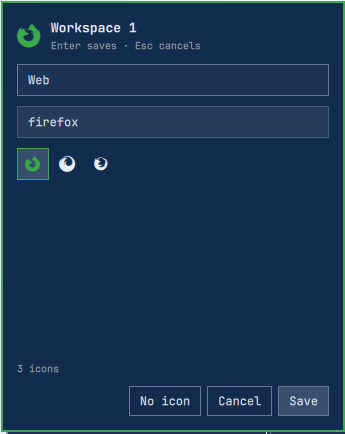
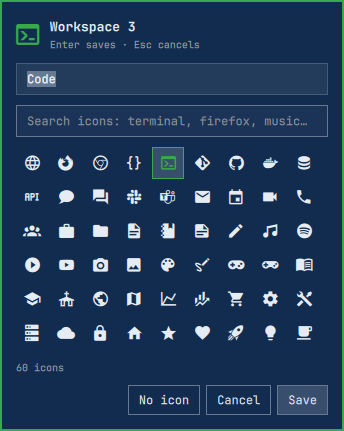
Marketplace prep: removal and requirements docs, preview, plain-text test

diff --git a/tests/qml-text.test.js b/tests/qml-text.test.js
@@ -1,0 +1,36 @@
+// Run: node tests/qml-text.test.js
+// Every Text item must render plain text: workspace names and icons come
+// from user config, and Qt's default AutoText would treat markup in them
+// as rich text (and load <img> URLs).
+const fs = require("fs");
+const path = require("path");
+
+const root = path.join(__dirname, "..");
+let failures = 0;
+let checked = 0;
+
+for (const file of fs.readdirSync(root).filter(f => f.endsWith(".qml"))) {
+  const lines = fs.readFileSync(path.join(root, file), "utf8").split("\n");
+  lines.forEach((line, i) => {
+    const open = line.match(/^(\s*)Text \{\s*$/);
+    if (!open) return;
+    checked++;
+    // Scan this item's own lines (up to its closing brace at the same indent).
+    let plain = false;
+    for (let j = i + 1; j < lines.length; j++) {
+      if (lines[j] === open[1] + "}") break;
+      if (/^\s*textFormat:\s*Text\.PlainText\s*$/.test(lines[j])) plain = true;
+    }
+    if (!plain) {
+      failures++;
+      console.log(`FAIL: ${file}:${i + 1} Text without textFormat: Text.PlainText`);
+    }
+  });
+}
+
+if (checked === 0) {
+  console.log("FAIL: no Text items found");
+  process.exit(1);
+}
+if (failures > 0) process.exit(1);
+console.log(`ok (${checked} Text items are PlainText)`);

diff --git a/README.md b/README.md
@@ -53,6 +53,28 @@ with
 The bar reloads on save. If the widget does not show up, run
 `omarchy restart shell`.
 
+## Remove
+
+1. In `~/.config/omarchy/shell.json`, change the entry's id back to
+   `omarchy.workspaces`. You can also delete its `format` and `workspaces`
+   keys, which the stock widget ignores.
+2. Delete the plugin folder:
+
+   ```bash
+   rm -rf ~/.config/omarchy/plugins/io.github.jburchel.workspace-nameplates
+   ```
+
+3. If you added the optional keybinding, remove it from `bindings.lua`.
+
+## Requirements
+
+- Omarchy 4 (Quattro shell). Tested on Omarchy 4.0.4 with Hyprland 0.56.
+- A Nerd Font for the bar. Omarchy's default, JetBrainsMono Nerd Font, works.
+
+There are no other dependencies. The plugin makes no network requests, needs
+no sudo and has no install hooks. It writes only its own entry in
+`~/.config/omarchy/shell.json`, and only when you press Save in the editor.
+
 ## Configuration
 
 The editor writes everything for you. If you prefer, you can edit the same
@@ -88,6 +110,12 @@ o.bind("SUPER + CTRL + N", "Rename workspace", "omarchy-shell io.github.jburchel
 
 `edit <n>` opens the editor for workspace *n* on the focused monitor, and
 `edit 0` opens it for the current workspace.
+
+## Tests
+
+```bash
+node tests/qml-text.test.js   # every Text item renders plain text
+```
 
 ## Credits
 
